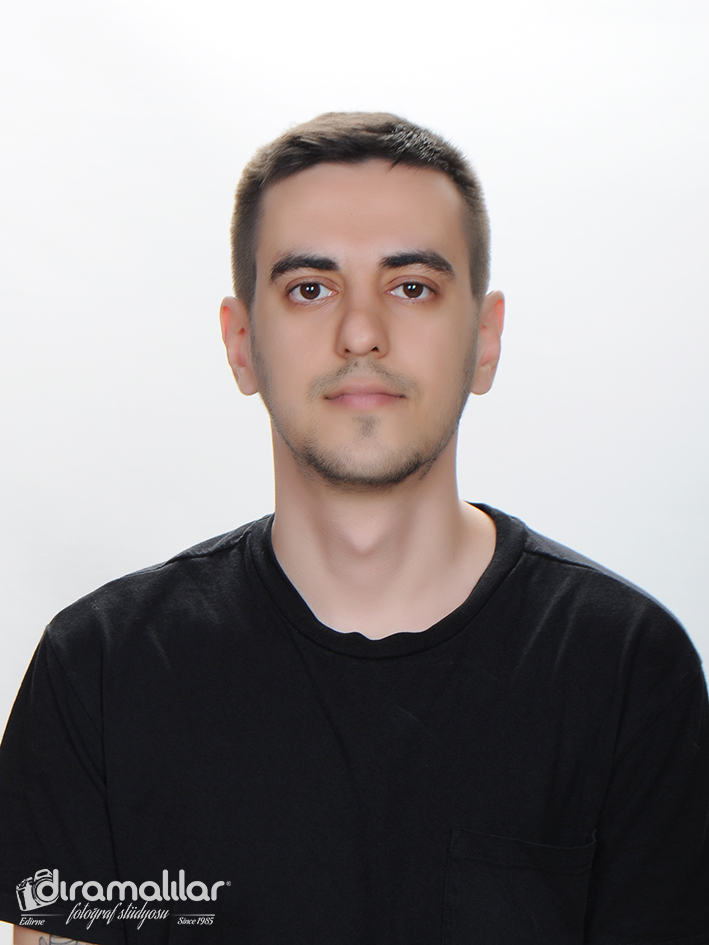
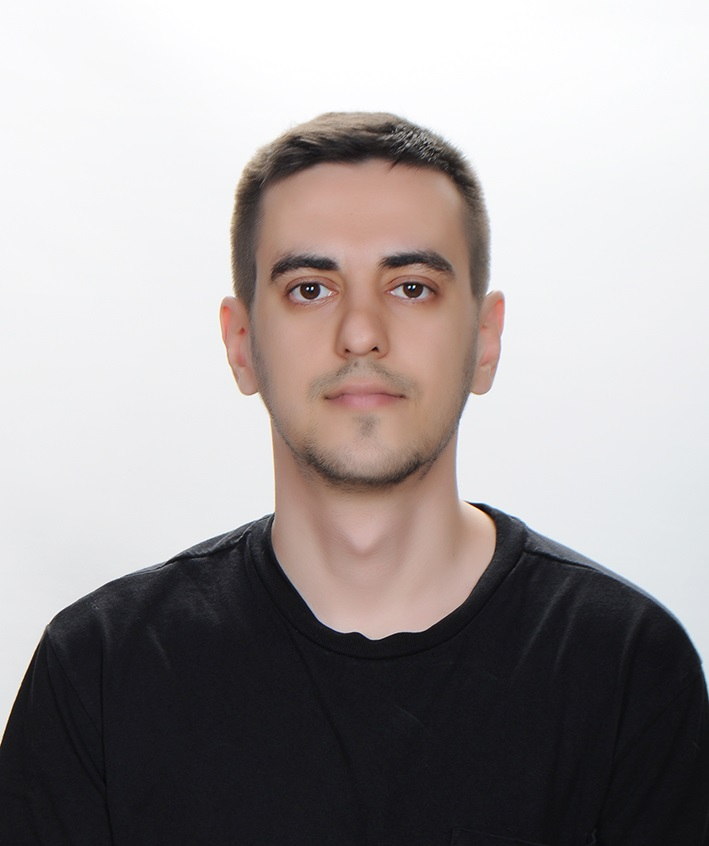
Changed index.html

Changed region(s): [[0.0, 0.0922, 1.0, 0.8913], [0.0, 0.922, 0.3103, 1.0]]

diff --git a/index.html b/index.html
@@ -28,7 +28,7 @@
 
             <article>
                 <h3><strong>Hakkımda</strong></h3>
-                <img src="https://picsum.photos/300" alt="KendiResmim">
+                <img src="images/NevfelOzdeniz.JPG" alt="KendiResmim" width="300">
                 <p>Harika iletişim becerilerine sahip, meraklı heyecanlı teknolojiyi ve sanatı çok seven dakik ve
                     sorumluluk sahibi
                     biriyim. Okumayı ve güncel kalmayı çok severim.</p>
@@ -43,19 +43,19 @@
                 <ol>
                     <li>Filmler</li>
                     <ul>
-                        <li><a href="https://www.imdb.com/title/tt3042408/?ref_=nv_sr_srsg_0">Who Am I</a></li>
+                        <li><a href="https://www.imdb.com/title/tt3042408/?ref_=nv_sr_srsg_0" target="_blank">Who Am I</a></li>
                     </ul>
                     <li>Diziler</li>
                     <ul>
-                        <li><a href="https://www.imdb.com/title/tt4158110/">MR.ROBOT</a></li>
-                        <li><a href="https://www.imdb.com/title/tt5574490/?ref_=nv_sr_srsg_0">Animal Kingdom</a></li>
+                        <li><a href="https://www.imdb.com/title/tt4158110/" target="_blank">MR.ROBOT</a></li>
+                        <li><a href="https://www.imdb.com/title/tt5574490/?ref_=nv_sr_srsg_0" target="_blank">Animal Kingdom</a></li>
                     </ul>
                     <li>Kitaplar</li>
                     <ul>
-                        <li><a href="https://www.goodreads.com/book/show/11029733-i-nsan-ne-i-le-ya-ar">İnsan Ne İle
+                        <li><a href="https://www.goodreads.com/book/show/11029733-i-nsan-ne-i-le-ya-ar" target="_blank">İnsan Ne İle
                                 Yaşar - Lev
                                 Tolstoy</a></li>
-                        <li><a href="https://www.goodreads.com/book/show/13079982-fahrenheit-451">Fahrenheit 451 - Ray
+                        <li><a href="https://www.goodreads.com/book/show/13079982-fahrenheit-451" target="_blank">Fahrenheit 451 - Ray
                                 Bradbury</a>
                         </li>
                     </ul>
